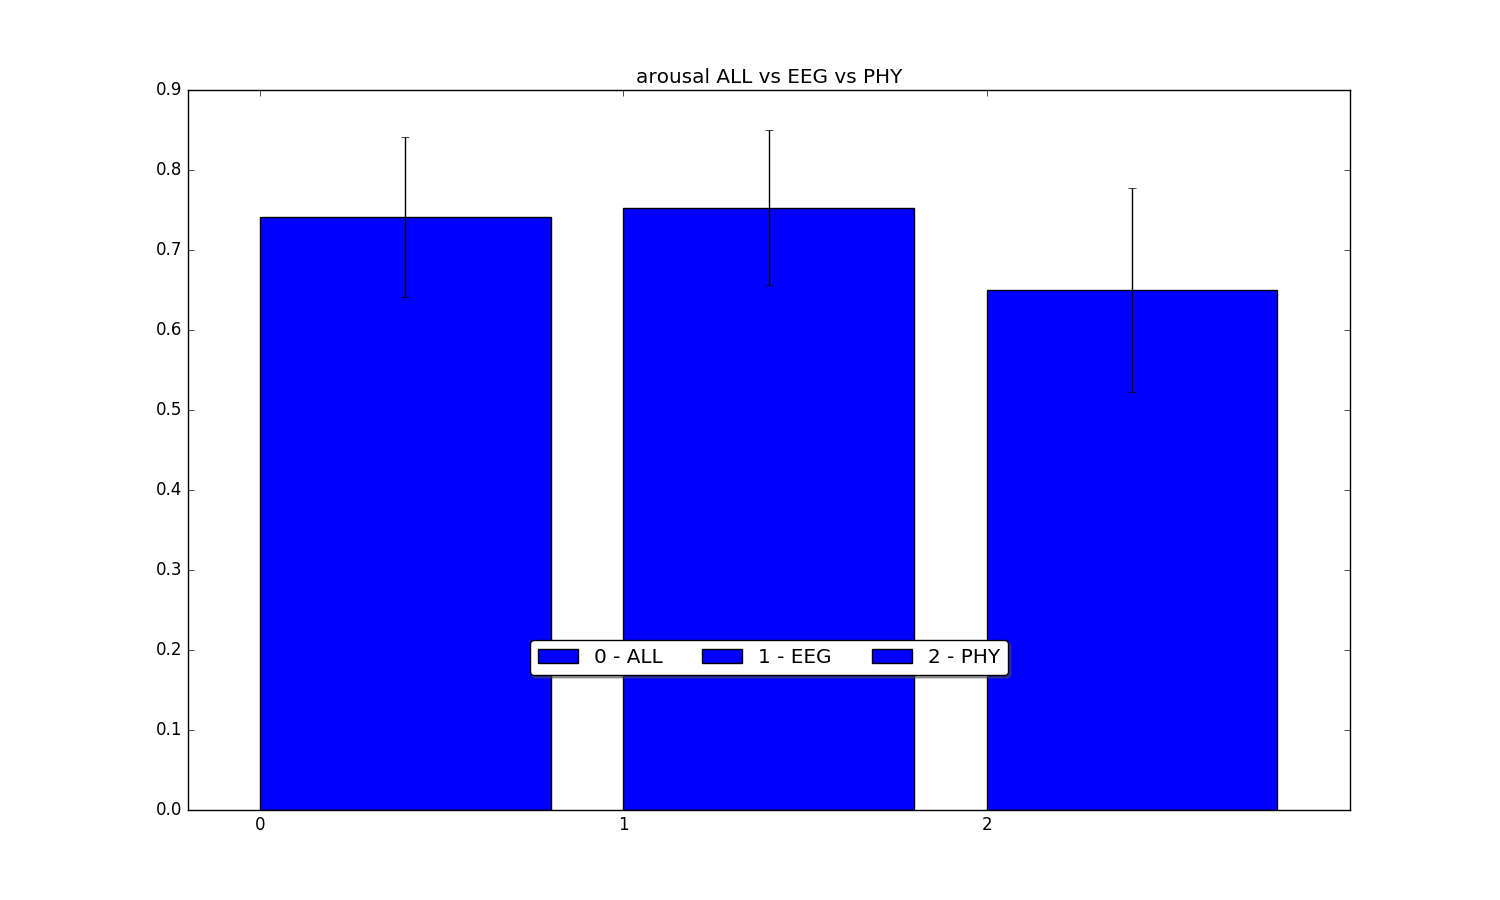
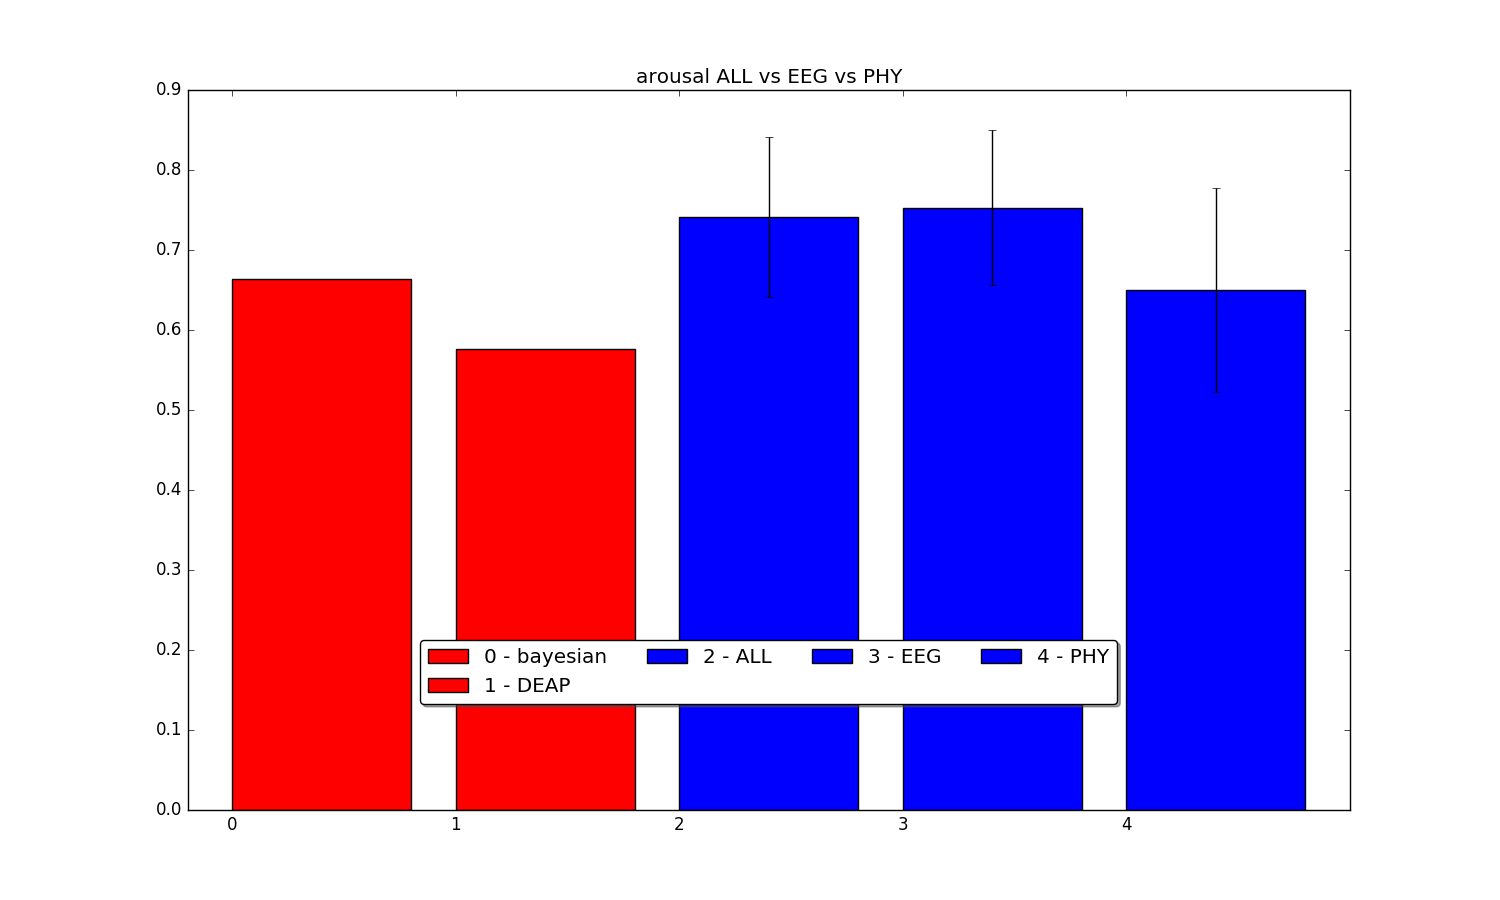
selected feat + refs op graphs

Changed region(s): [[0.1533, 0.2178, 0.7667, 0.9022], [0.828, 0.3111, 0.8893, 0.9022]]

diff --git a/app/grapher.py b/app/grapher.py
@@ -2,7 +2,7 @@ import matplotlib.pylab as plt
 import numpy as np
 
 
-def genPlot(avgs,stds,lbls,title, fpad="../results/plots/"):
+def genPlot(avgs,stds,lbls,title,bar_colors=None,fpad="../results/plots/"):
 
     fname = fpad + 'accComp_' + str(title) + '.png'
 
@@ -13,7 +13,11 @@ def genPlot(avgs,stds,lbls,title, fpad="../results/plots/"):
 
     plt.title(title)
     for i, (avg, std) in enumerate(zip(avgs,stds)):
+
         color = "b"
+        if bar_colors != None:
+            color = bar_colors[i]
+
 
         ax.bar(
             i,
@@ -43,64 +47,68 @@ def RFPers():
     title = 'accuracies for valence'
     genPlot(avgs, stds, lbls, title)
 
-    avgs = [0.715, 0.693, 0.692, 0.664, 0.576, 0.817, 0.8381, 0.7925, 0.831]
-    stds = [0.0885, 0.0981, 0.0878, 0, 0, 0, 0.0492, 0.023, 0.0483]
+    avgs = [0.715, 0.693 , 0.692 , 0.664, 0.576, 0.817, 0.8381, 0.7925, 0.831]
+    stds = [0.0885, 0.098, 0.0878, 0    , 0    , 0    , 0.0492, 0.023, 0.0483]
     title = 'accuracies for arousal'
     genPlot(avgs, stds, lbls, title)
 
 def valence():
+    clrs = ['r', 'r', 'b', 'b', 'b', 'b', 'b', 'b', 'b', 'b', 'b', 'b', 'b']
+
     # all valence
-    lbls = ['pearsonR', 'MutInf', 'dCorr', 'LR', 'L1', 'L2', 'SVM', 'RF', 'ANOVA', 'LDA', 'PCA']
-    avgs = [0.6875, 0.59062, 0.7, 0.625, 0.70625, 0.625, 0.69688, 0.74062, 0.71562, 0.61875, 0.61563]
-    stds = [0.13, 0.17, 0.13, 0.12, 0.14, 0.12, 0.15, 0.11, 0.13, 0.16, 0.13]
+    lbls = ['bayesian','DEAP','pearsonR', 'MutInf', 'dCorr', 'LR', 'L1', 'L2', 'SVM', 'RF', 'ANOVA', 'LDA', 'PCA']
+    avgs = [0.666, 0.620, 0.6875, 0.5906, 0.7 , 0.625, 0.7063, 0.625, 0.697, 0.741, 0.716, 0.619, 0.61563]
+    stds = [0    , 0    , 0.13  , 0.17  , 0.13, 0.12 , 0.14  , 0.12 , 0.15 , 0.11 , 0.13 , 0.16 , 0.13   ]
     title = 'best test acc valence ALL'
-    genPlot(avgs, stds, lbls, title)
+    genPlot(avgs, stds, lbls, title, clrs)
 
     # eeg valence
-    avgs = [0.684, 0.591, 0.713, 0.644, 0.716, 0.653, 0.697, 0.728, 0.713, 0.650, 0.606]
-    stds = [0.118, 0.126, 0.122, 0.130, 0.146, 0.135, 0.151, 0.118, 0.134, 0.195, 0.134]
+    avgs = [0.666, 0.620, 0.684, 0.591, 0.713, 0.644, 0.716, 0.653, 0.697, 0.728, 0.713, 0.650, 0.606]
+    stds = [0    , 0    , 0.118, 0.126, 0.122, 0.130, 0.146, 0.135, 0.151, 0.118, 0.134, 0.195, 0.134]
     title = 'best test acc valence EEG'
-    genPlot(avgs, stds, lbls, title)
+    genPlot(avgs, stds, lbls, title, clrs)
 
     # phy valence
-    avgs = [0.600, 0.575, 0.600, 0.594, 0.581, 0.578, 0.603, 0.609, 0.566, 0.584, 0.594]
-    stds = [0.141, 0.173, 0.146, 0.168, 0.147, 0.154, 0.121, 0.177, 0.185, 0.164, 0.158]
+    avgs = [0.666, 0.620, 0.600, 0.575, 0.600, 0.594, 0.581, 0.578, 0.603, 0.609, 0.566, 0.584, 0.594]
+    stds = [0    , 0    , 0.141, 0.173, 0.146, 0.168, 0.147, 0.154, 0.121, 0.177, 0.185, 0.164, 0.158]
     title = 'best test acc valence PHY'
-    genPlot(avgs, stds, lbls, title)
+    genPlot(avgs, stds, lbls, title, clrs)
 
     # all vs eeg vs phy
-    lbls = ['ALL', 'EEG', 'PHY']
-    avgs = [0.741, 0.728, 0.609]
-    stds = [0.109, 0.118, 0.177]
+    lbls = ['bayesian', 'DEAP','ALL', 'EEG', 'PHY']
+    avgs = [0.666, 0.620, 0.741, 0.728, 0.609]
+    stds = [0    , 0    , 0.109, 0.118, 0.177]
     title = 'valence ALL vs EEG vs PHY'
-    genPlot(avgs, stds, lbls, title)
+    genPlot(avgs, stds, lbls, title, clrs)
 
 def arousal():
+    clrs = ['r','r','b','b', 'b', 'b', 'b', 'b', 'b', 'b', 'b', 'b', 'b']
+
     # all valence
-    lbls = ['pearsonR', 'MutInf', 'dCorr', 'LR', 'L1', 'L2', 'SVM', 'RF', 'ANOVA', 'LDA', 'PCA']
-    avgs = [0.681, 0.588, 0.713, 0.669, 0.728, 0.659, 0.688, 0.741, 0.688, 0.638, 0.597]
-    stds = [0.159, 0.139, 0.127, 0.159, 0.118, 0.158, 0.132, 0.100, 0.145, 0.122, 0.145]
+    lbls = ['bayesian', 'DEAP','pearsonR', 'MutInf', 'dCorr', 'LR', 'L1', 'L2', 'SVM', 'RF', 'ANOVA', 'LDA', 'PCA']
+    avgs = [0.664, 0.576, 0.681, 0.588, 0.713, 0.669, 0.728, 0.659, 0.688, 0.741, 0.688, 0.638, 0.597]
+    stds = [0    , 0    , 0.159, 0.139, 0.127, 0.159, 0.118, 0.158, 0.132, 0.100, 0.145, 0.122, 0.145]
     title = 'best test acc arousal ALL'
-    genPlot(avgs, stds, lbls, title)
+    genPlot(avgs, stds, lbls, title, clrs)
 
     # eeg valence
-    avgs = [0.684, 0.594, 0.716, 0.656, 0.706, 0.656, 0.669, 0.753, 0.700, 0.666, 0.581]
-    stds = [0.156, 0.152, 0.123, 0.137, 0.139, 0.141, 0.136, 0.097, 0.112, 0.143, 0.149]
+    avgs = [0.664, 0.576, 0.684, 0.594, 0.716, 0.656, 0.706, 0.656, 0.669, 0.753, 0.700, 0.666, 0.581]
+    stds = [0    , 0    , 0.156, 0.152, 0.123, 0.137, 0.139, 0.141, 0.136, 0.097, 0.112, 0.143, 0.149]
     title = 'best test acc arousal EEG'
-    genPlot(avgs, stds, lbls, title)
+    genPlot(avgs, stds, lbls, title, clrs)
 
     # phy valence
-    avgs = [0.619, 0.622, 0.634, 0.594, 0.619, 0.594, 0.628, 0.650, 0.606, 0.591, 0.594]
-    stds = [0.153, 0.122, 0.147, 0.141, 0.124, 0.127, 0.150, 0.127, 0.130, 0.159, 0.141]
+    avgs = [0.664, 0.576, 0.619, 0.622, 0.634, 0.594, 0.619, 0.594, 0.628, 0.650, 0.606, 0.591, 0.594]
+    stds = [0    , 0    , 0.153, 0.122, 0.147, 0.141, 0.124, 0.127, 0.150, 0.127, 0.130, 0.159, 0.141]
     title = 'best test acc arousal PHY'
-    genPlot(avgs, stds, lbls, title)
+    genPlot(avgs, stds, lbls, title, clrs)
 
     # all vs eeg vs phy
-    lbls = ['ALL', 'EEG', 'PHY']
-    avgs = [0.741, 0.753, 0.650]
-    stds = [0.100, 0.097, 0.127]
+    lbls = ['bayesian', 'DEAP','ALL', 'EEG', 'PHY']
+    avgs = [0.664, 0.576,0.741, 0.753, 0.650]
+    stds = [0,0,0.100, 0.097, 0.127]
     title = 'arousal ALL vs EEG vs PHY'
-    genPlot(avgs, stds, lbls, title)
+    genPlot(avgs, stds, lbls, title, clrs)
 
 if __name__ == '__main__':
     valence()

diff --git a/app/main/PERS/PersScript.py b/app/main/PERS/PersScript.py
@@ -461,32 +461,57 @@ class PersScript():
     def genAccReport(self):
         #self.accs[person][model][metric] = [best_feat, best_featNames, best_score, best_std, all_score, all_std]
 
+        tekst = []
         for person in range(len(self.accs)):
             f = open(self.rpad + "Accresults" + str(person) + ".csv", 'w')
 
             #accuracies
             f.write("model;pearsonR;MutInf;dCorr;LR;L1;L2;SVM;RF;ANOVA;LDA;\n")
-            for model, modelName in zip(self.accs[person], ["rf1000","SVMLIN","SVMRBF","KNN3","KNN5","KNN7","KNN11"]):
+            for model, modelName in zip(self.accs[person], ["SVMLIN","SVMRBF","KNN3","KNN5","KNN7"]):
                 f.write(modelName + ';')
 
+                t = []
                 for metric in model:
+                    t.append([])
                     f.write(str(metric[2]) + '(' + str(metric[3]) + ');')
                 f.write('\n')
+
+                if person == 0:
+                    tekst.append(t)
+
 
             f.write('\n\n\n')
 
             #features
-            for model, modelName in zip(self.accs[person], ["rf1000","SVMLIN","SVMRBF","KNN3","KNN5","KNN7","KNN11"]):
+            for modelIndex, (model, modelName) in enumerate(zip(self.accs[person], ["SVMLIN","SVMRBF","KNN3","KNN5","KNN7"])):
                 f.write(modelName + '\n\n')
-                f.write("matric;features used;")
-                for metric, metricName in zip(model, ['pearsonR','MutInf','dCorr','LR','L1','L2','SVM','RF','ANOVA','LDA']):
+                f.write("matric;features used;\n")
+                for metricIndex, (metric, metricName) in enumerate(zip(model, ['pearsonR','MutInf','dCorr','LR','L1','L2','SVM','RF','ANOVA','LDA'])):
                     f.write(metricName + ';')
                     for featName in metric[1]:
                         f.write(featName + ';')
                     f.write('\n')
+
+                    tekst[modelIndex][metricIndex].append(metric[1])
                 f.write('\n\n\n')
 
             f.close()
+
+        for model, modelName in zip(tekst, ["SVMLIN","SVMRBF","KNN3","KNN5","KNN7"]):
+            g = open(self.rpad + "finFeat" + str(modelName) + ".csv", 'w')
+
+            for metric, metricName in zip(model, ['pearsonR','MutInf','dCorr','LR','L1','L2','SVM','RF','ANOVA','LDA']):
+                g.write(metricName + "\n")
+                g.write('person;usedFeatures;\n')
+
+                for person,data in enumerate(metric):
+                    g.write(str(person) + ';')
+                    for feat in data:
+                        g.write(str(feat) + ';')
+                    g.write('\n')
+
+                g.write("\n\n\n'")
+            g.close()
 
     def genFinalReport(self):
         avgs, stds = [], []
@@ -649,9 +674,9 @@ class PersScript():
         self.genFinalReport()
 
 if __name__ == '__main__':
-    #PersScript("EEG", 32, 30, Classificators.ContValenceClassificator()).run()
-    #PersScript("PHY", 32, 30, Classificators.ContValenceClassificator()).run()
-    #PersScript("ALL", 32, 30, Classificators.ContValenceClassificator()).run()
+    PersScript("EEG", 32, 30, Classificators.ContValenceClassificator()).run()
+    PersScript("PHY", 32, 30, Classificators.ContValenceClassificator()).run()
+    PersScript("ALL", 32, 30, Classificators.ContValenceClassificator()).run()
 
     PersScript("EEG", 32, 30, Classificators.ContArousalClassificator()).run()
     PersScript("PHY", 32, 30, Classificators.ContArousalClassificator()).run()
